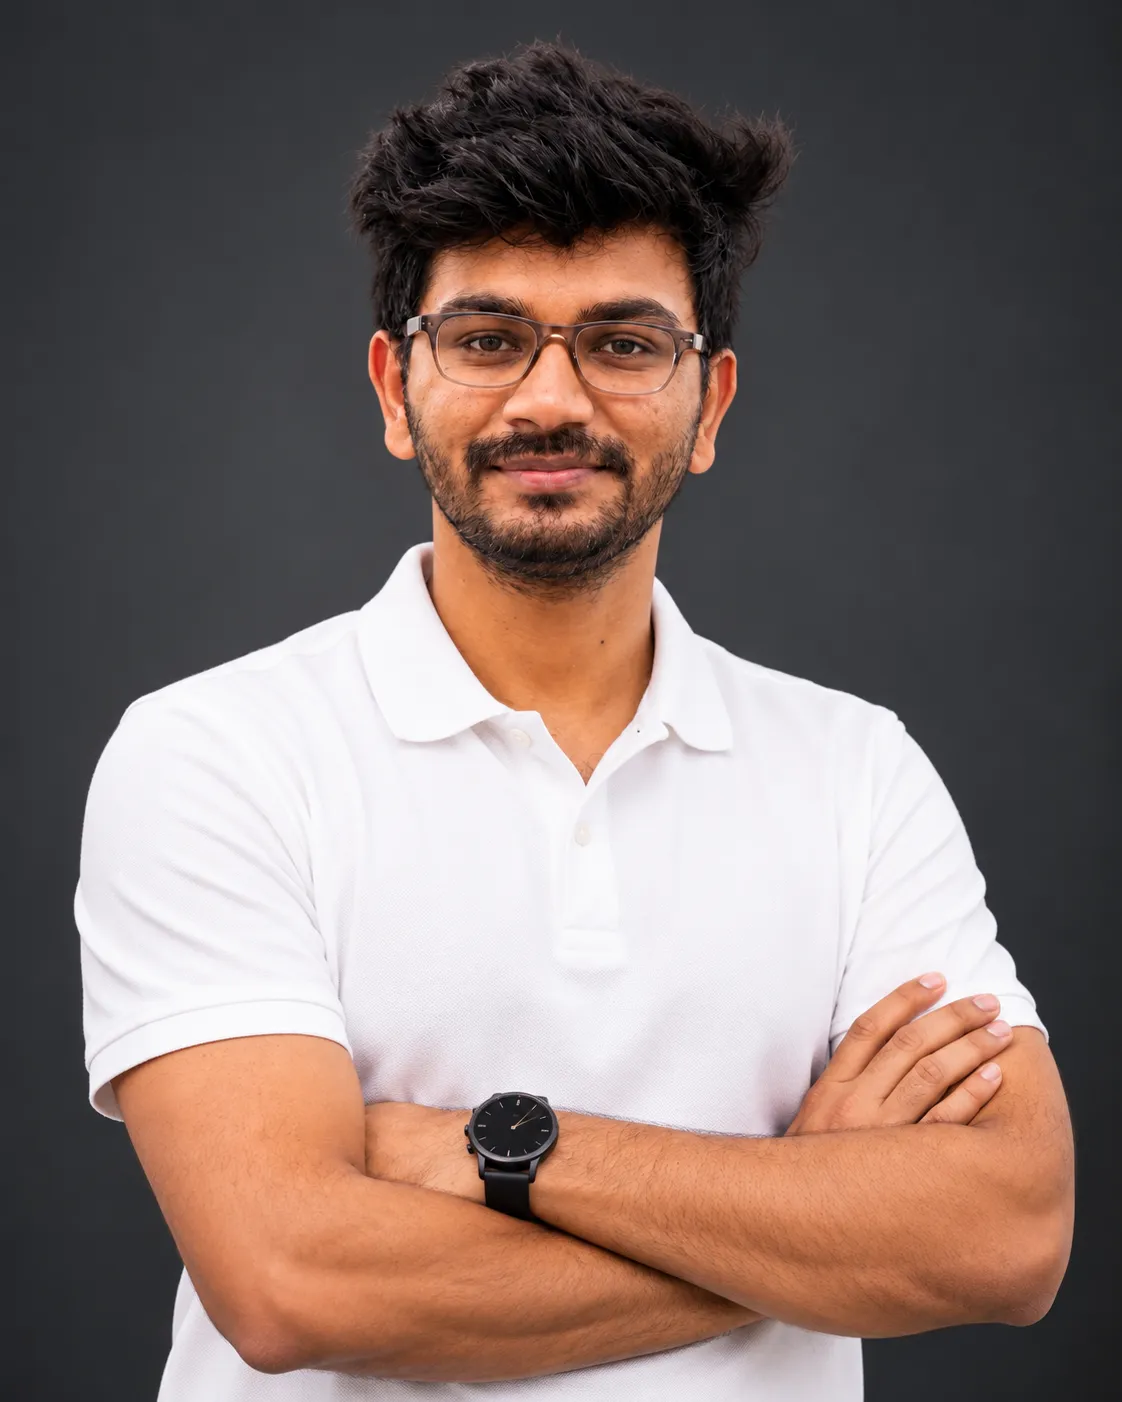
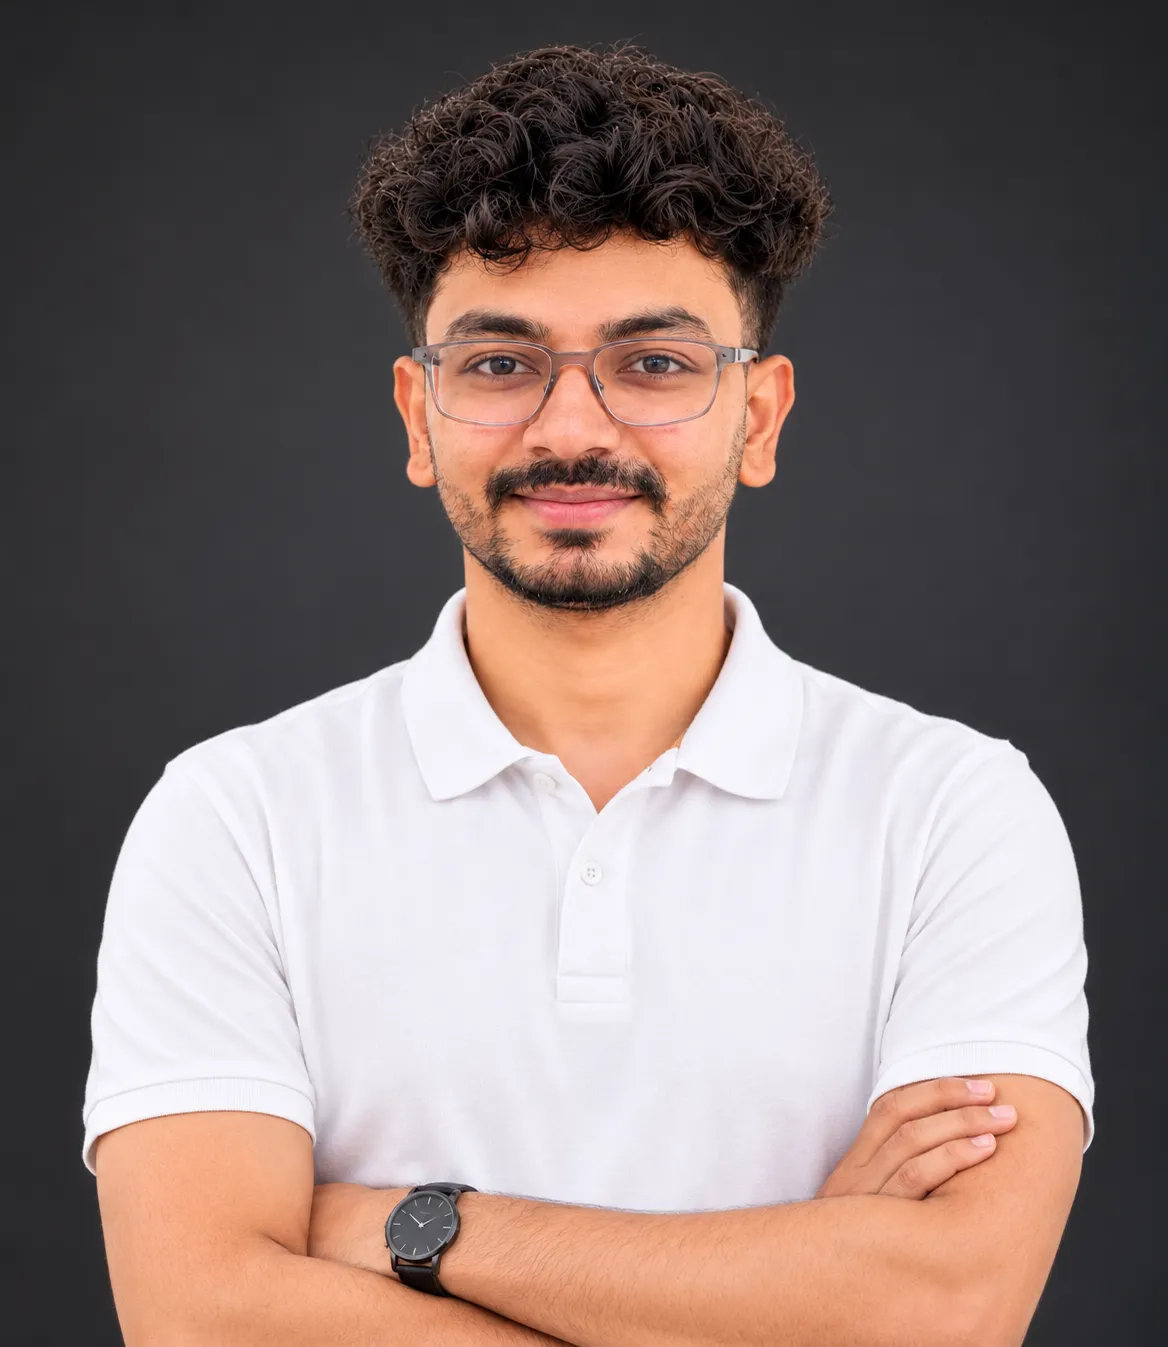
team images and name changes 11-11-2026 11:29am

diff --git a/src/components/Home/UnimaxxTeam.jsx b/src/components/Home/UnimaxxTeam.jsx
@@ -11,9 +11,9 @@ const UnimaxxTeam = () => {
   const teamMembers = [
     { id: 1, name: "Mr.Dineshkaran - Founder", img: peopleimg4 },
     { id: 2, name: "Mr.Vignesh - Lead Architect", img: peopleimg3 },  
-    { id: 3, name: "Mr.Raghul - Interior Designer", img: peopleimg2 },
+    { id: 3, name: "Mr.Ragul - Interior Designer", img: peopleimg2 },
     { id: 4, name: "Mr.Gnanavel - Junior Architect", img: gnanavel},
-    { id: 5, name: "Mr.Rathish - Junior Architect", img: rathish },
+    { id: 5, name: "Mr.Ratish - Junior Architect", img: rathish },
 
   ];
 
